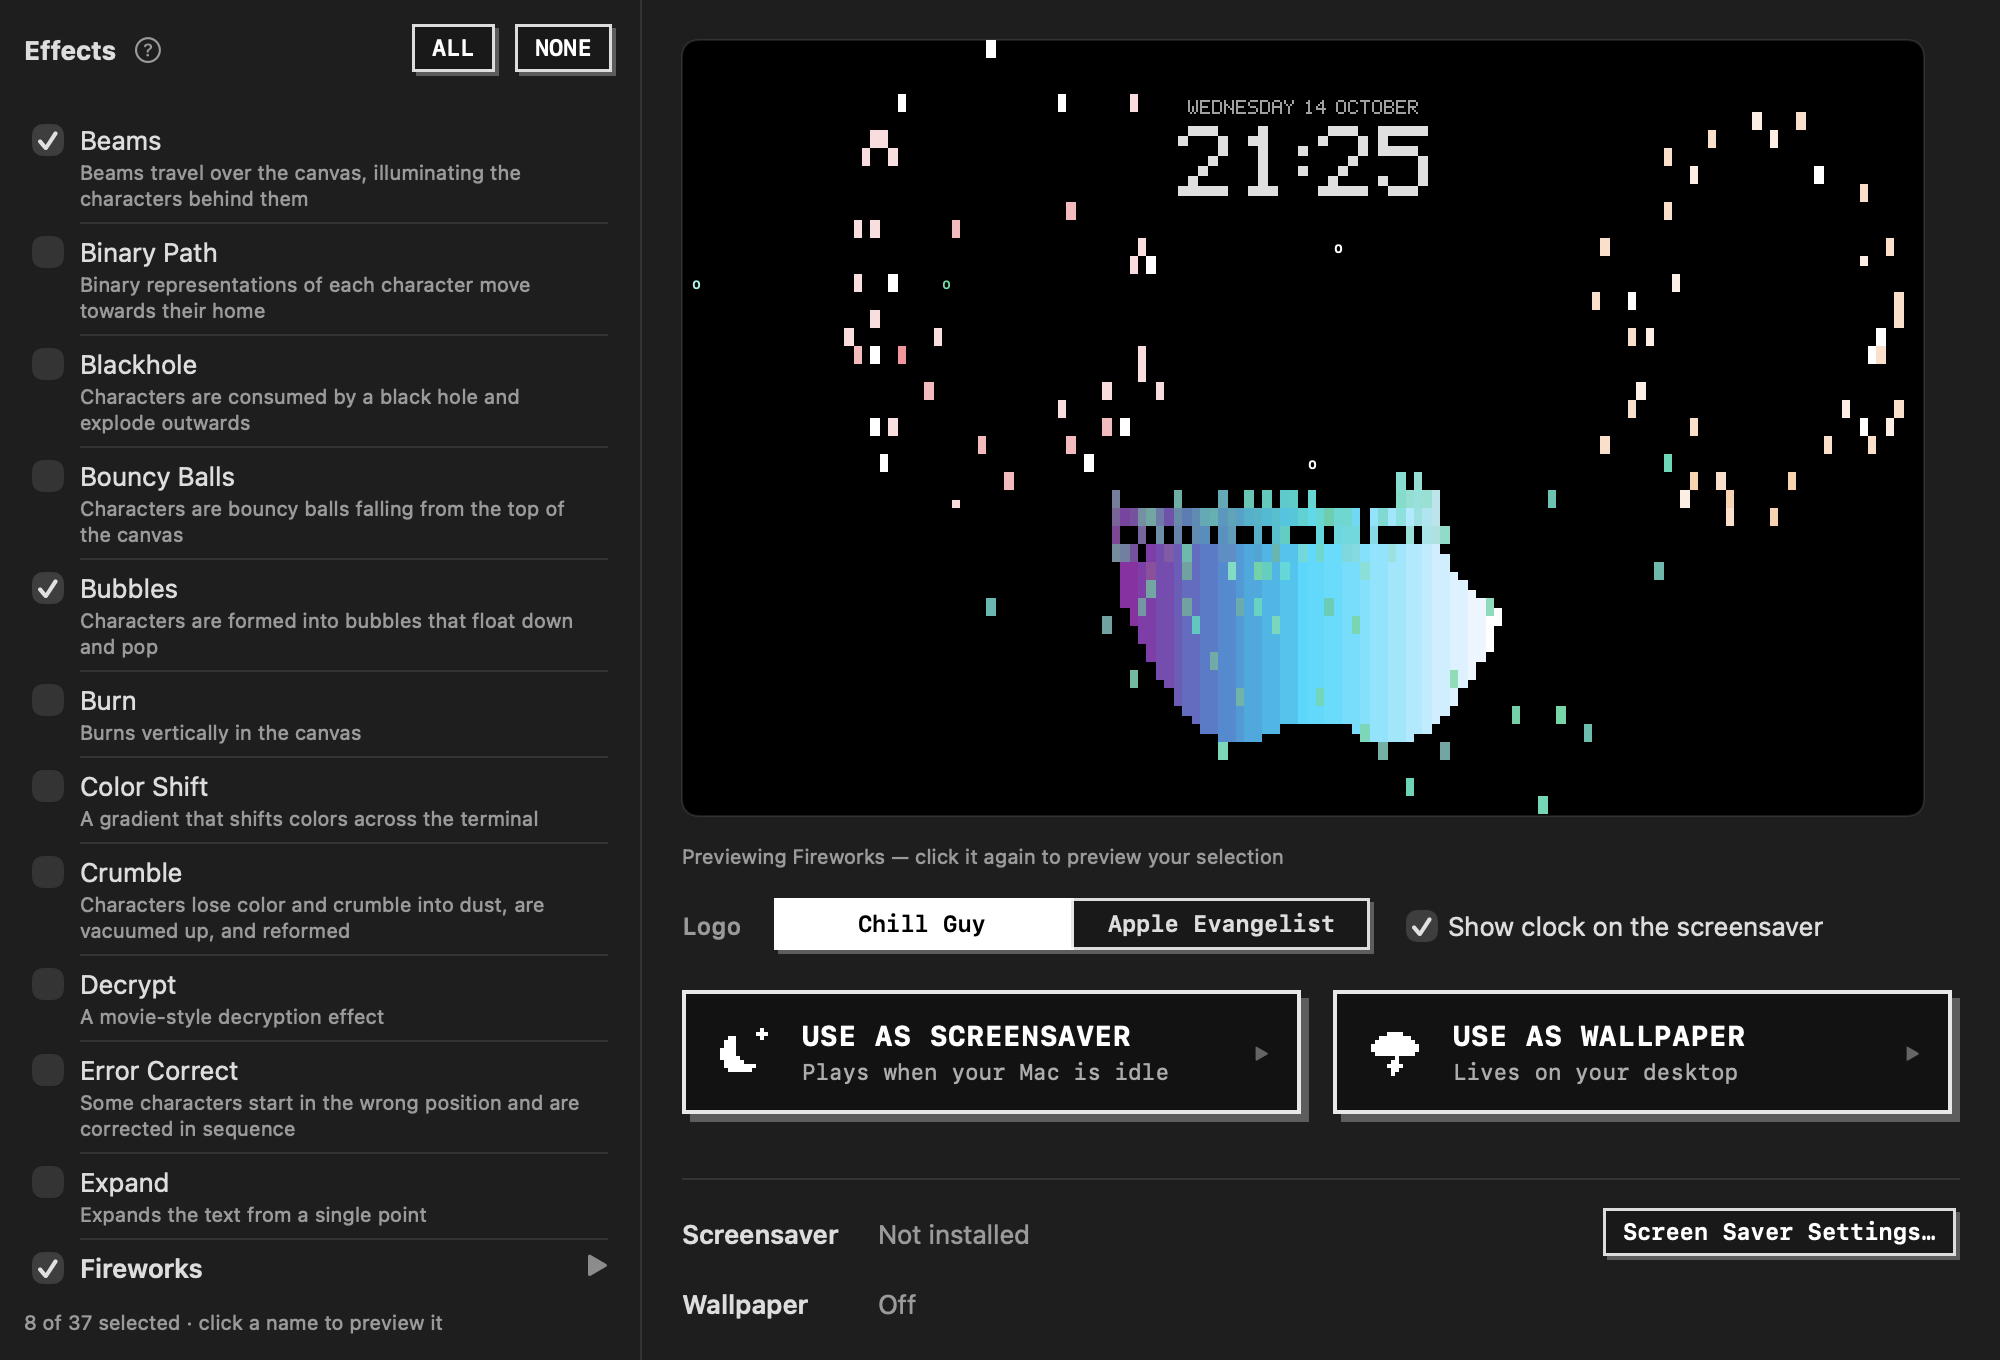
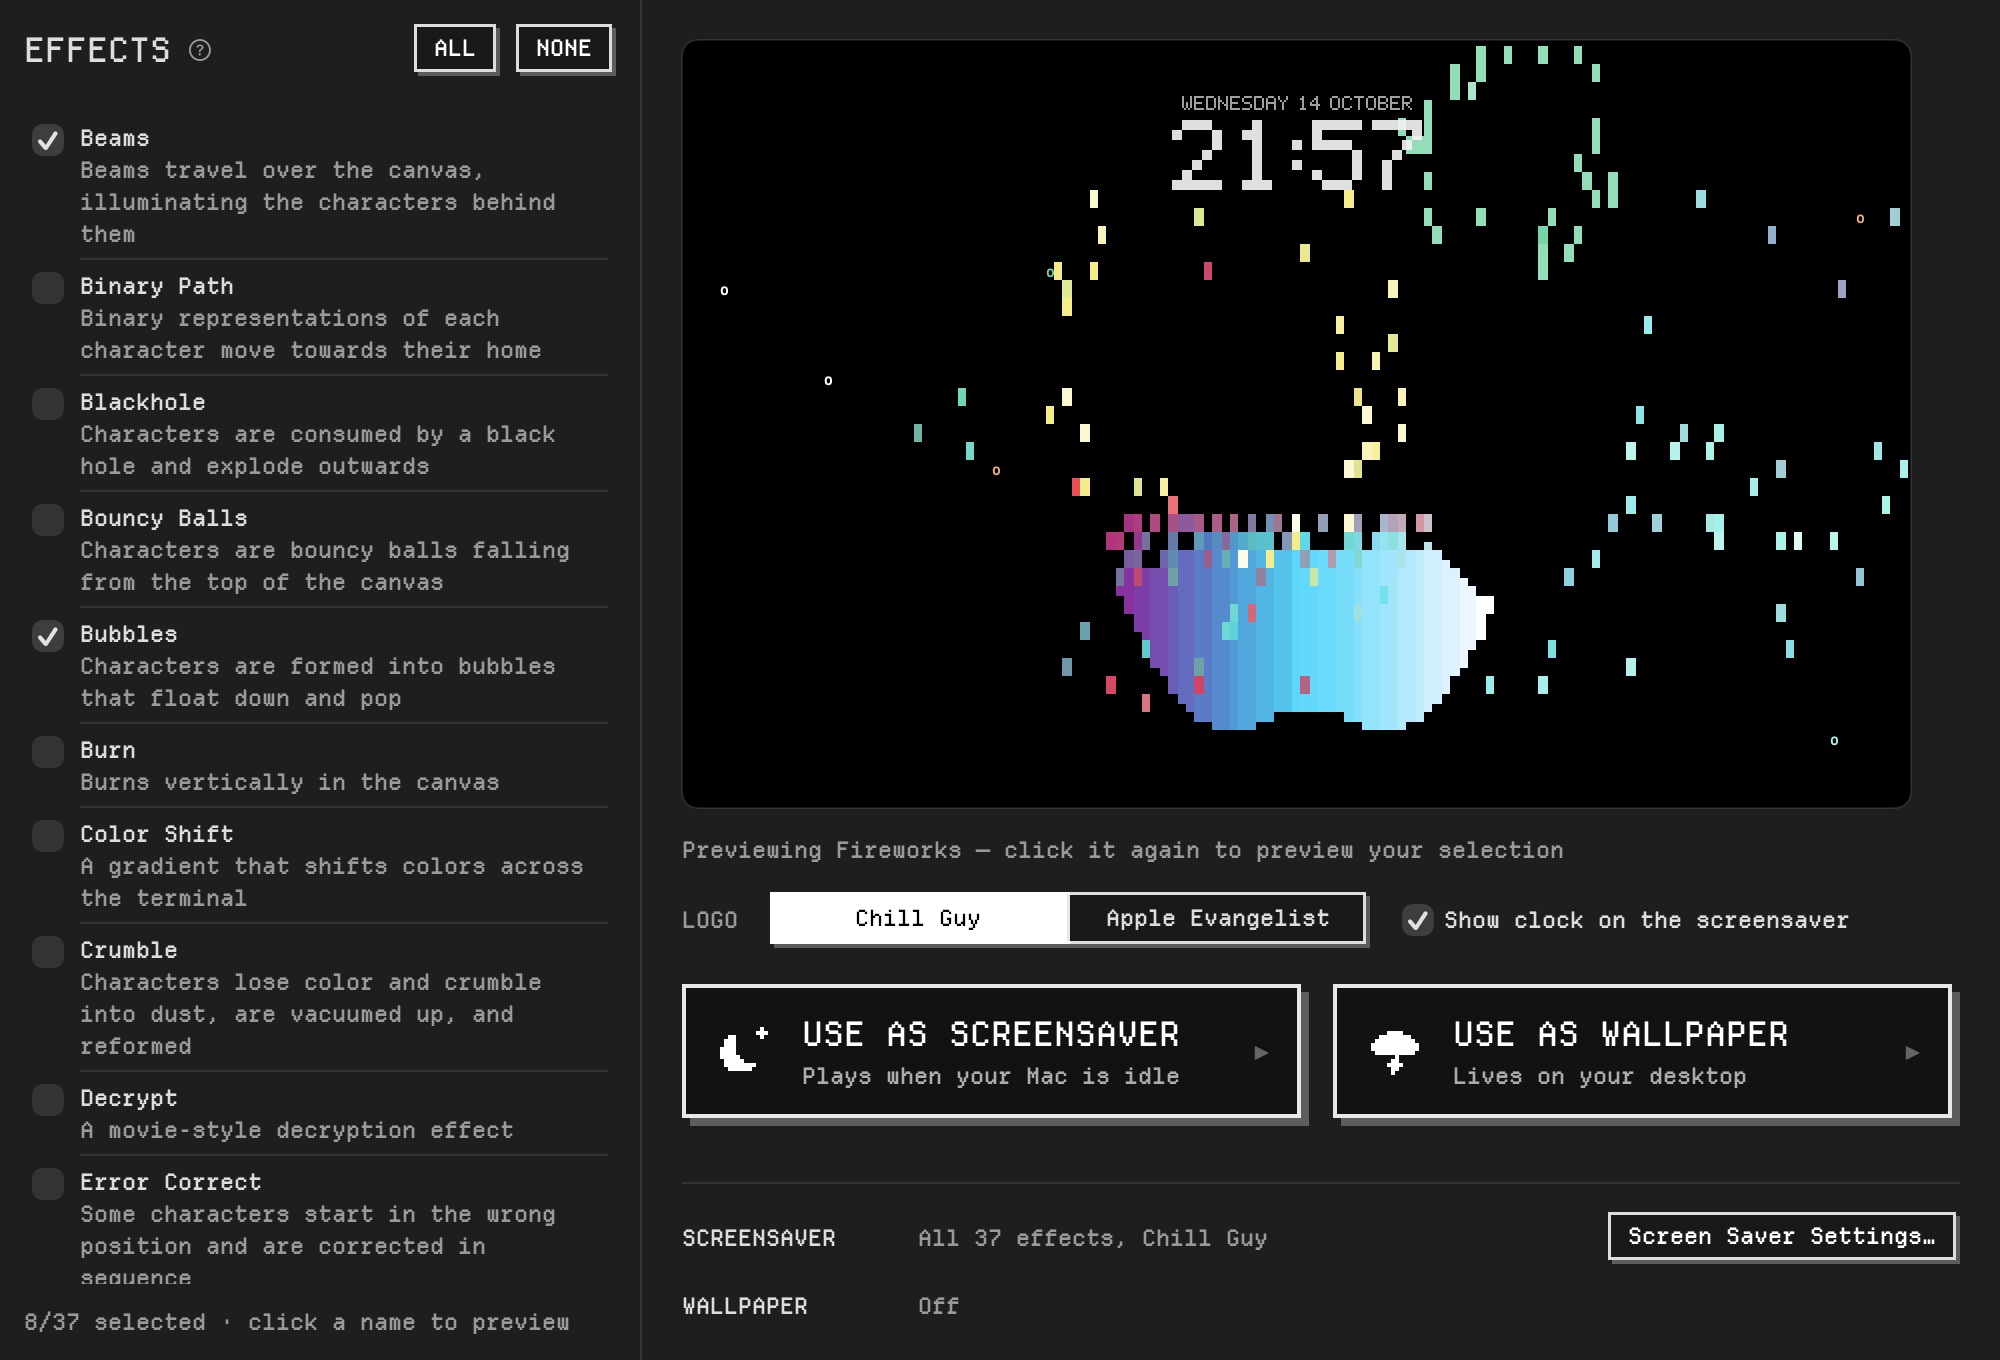
Applarchy 1.1: one pixel typeface everywhere
The whole app now uses Departure Mono (SIL OFL 1.1, bundled), a pixel
monospace on an 11 px grid, at 11 / 16.5 / 22 pt only so every stem lands
on whole pixels. With a single weight, hierarchy comes from size, capitals
and colour instead of bold.

diff --git a/studio/ContentView.swift b/studio/ContentView.swift
@@ -35,6 +35,7 @@ struct ContentView: View {
         }
         .frame(minWidth: 940, minHeight: 640)
         .background(Color(nsColor: .windowBackgroundColor))
+        .font(Pixel.body)
         .onAppear { if !tutorialSeen && !snapshotMode { withAnimation(.easeOut(duration: 0.3).delay(0.35)) { showTutorial = true } } }
         .onChange(of: showTutorial) { if !$0 && !snapshotMode { tutorialSeen = true } }
         .onReceive(NotificationCenter.default.publisher(for: .showTutorial)) { _ in withAnimation(.easeOut(duration: 0.25)) { showTutorial = true } }
@@ -47,7 +48,7 @@ struct ContentView: View {
     private var effectList: some View {
         VStack(alignment: .leading, spacing: 0) {
             HStack {
-                Text("Effects").font(.headline)
+                Text("EFFECTS").font(Pixel.title)
                 Button { withAnimation(.easeOut(duration: 0.25)) { showTutorial = true } } label: {
                     Image(systemName: "questionmark.circle")
                 }
@@ -61,8 +62,8 @@ struct ContentView: View {
                 HStack(alignment: .top, spacing: 8) {
                     Toggle("", isOn: selected(effect.id)).labelsHidden()
                     VStack(alignment: .leading, spacing: 2) {
-                        Text(effect.title).fontWeight(focused == effect.id ? .semibold : .regular)
-                        Text(effect.summary).font(.caption).foregroundStyle(.secondary).lineLimit(2)
+                        Text(effect.title).font(Pixel.body).foregroundStyle(focused == effect.id ? Color.white : Color.primary)
+                        Text(effect.summary).font(Pixel.body).foregroundStyle(.secondary).lineLimit(3).lineSpacing(2)
                     }
                     Spacer(minLength: 0)
                     if focused == effect.id { Image(systemName: "play.fill").foregroundStyle(.tint) }
@@ -71,8 +72,8 @@ struct ContentView: View {
                 .contentShape(Rectangle())
                 .onTapGesture { focused = focused == effect.id ? nil : effect.id }
             }
-            Text("\(draft.effects.count) of \(Catalog.effects.count) selected · click a name to preview it")
-                .font(.caption).foregroundStyle(.secondary).padding(12)
+            Text("\(draft.effects.count)/\(Catalog.effects.count) selected · click a name to preview")
+                .foregroundStyle(.secondary).padding(12)
         }
     }
 
@@ -101,10 +102,10 @@ struct ContentView: View {
                 .overlay(RoundedRectangle(cornerRadius: 8).stroke(.separator))
             Text(focused.map { id in "Previewing \(Catalog.effects.first { $0.id == id }!.title) — click it again to preview your selection" }
                  ?? (draft.effects.count == 1 ? "Previewing your selection" : "Previewing your selection in random order"))
-                .font(.caption).foregroundStyle(.secondary)
+                .foregroundStyle(.secondary)
 
             HStack(spacing: 16) {
-                Text("Logo").font(.system(size: 12, weight: .semibold, design: .monospaced)).foregroundStyle(.secondary)
+                Text("LOGO").foregroundStyle(.secondary)
                 PixelSegmented(selection: $draft.logo, options: [
                     ("apple-small", EffectConfig.logoTitle("apple-small")),
                     ("apple", EffectConfig.logoTitle("apple")),
@@ -121,17 +122,17 @@ struct ContentView: View {
             }
             .padding(.top, 4)
             .disabled(draft.effects.isEmpty)
-            if draft.effects.isEmpty { Text("Select at least one effect.").font(.caption).foregroundStyle(.secondary) }
+            if draft.effects.isEmpty { Text("Select at least one effect.").foregroundStyle(.secondary) }
 
             if Bundle.main.bundlePath.contains("/AppTranslocation/") {
                 Label("Move Applarchy to your Applications folder and open it from there, so it can start at login.",
                       systemImage: "exclamationmark.triangle")
-                    .font(.system(size: 12, design: .monospaced)).foregroundStyle(.orange)
+                    .foregroundStyle(.orange)
                     .fixedSize(horizontal: false, vertical: true)
             }
 
             if let message {
-                Text(message).font(.callout).foregroundStyle(.secondary).fixedSize(horizontal: false, vertical: true)
+                Text(message).foregroundStyle(.secondary).lineSpacing(2).fixedSize(horizontal: false, vertical: true)
             }
 
             Spacer(minLength: 0)
@@ -152,7 +153,7 @@ struct ContentView: View {
 
     private func statusRow<Buttons: View>(title: String, value: String, @ViewBuilder buttons: () -> Buttons) -> some View {
         HStack {
-            Text(title).fontWeight(.semibold).frame(width: 90, alignment: .leading)
+            Text(title.uppercased()).frame(width: 110, alignment: .leading)
             Text(value).foregroundStyle(.secondary)
             Spacer()
             buttons()

diff --git a/studio/Tutorial.swift b/studio/Tutorial.swift
@@ -34,6 +34,7 @@ struct TutorialOverlay: View {
                 .overlay(RoundedRectangle(cornerRadius: 22, style: .continuous).strokeBorder(.white.opacity(0.12)))
                 .shadow(color: .black.opacity(0.45), radius: 40, y: 18)
         }
+        .font(Pixel.body)
     }
 
     private var card: some View {
@@ -52,10 +53,10 @@ struct TutorialOverlay: View {
 
             VStack(alignment: .leading, spacing: 8) {
                 Text("STEP \(page + 1) OF \(steps.count)")
-                    .font(.system(size: 11, weight: .bold, design: .monospaced)).tracking(1.2)
+                    .font(Pixel.body)
                     .foregroundStyle(.secondary)
-                Text(steps[page].title).font(.system(size: 22, weight: .bold))
-                Text(steps[page].body).font(.system(size: 13.5)).foregroundStyle(.secondary)
+                Text(steps[page].title).font(Pixel.display)
+                Text(steps[page].body).font(Pixel.body).lineSpacing(4).foregroundStyle(.secondary)
                     .fixedSize(horizontal: false, vertical: true)
                     .frame(minHeight: 54, alignment: .top)
             }
@@ -81,7 +82,7 @@ struct TutorialOverlay: View {
                 HStack(spacing: 8) {
                     if page > 0 {
                         Button { go(to: page - 1) } label: {
-                            Text("◀").font(.system(size: 12.5, weight: .bold, design: .monospaced))
+                            Text("◀").font(Pixel.body)
                                 .foregroundStyle(.white)
                                 .padding(.horizontal, 12).padding(.vertical, 8)
                                 .background(Color(white: 0.14))
@@ -91,7 +92,7 @@ struct TutorialOverlay: View {
                     }
                     Button { page == steps.count - 1 ? close() : go(to: page + 1) } label: {
                         Text((page == steps.count - 1 ? "Get Started" : "Next") + " ▶")
-                            .font(.system(size: 12.5, weight: .bold, design: .monospaced))
+                            .font(Pixel.body)
                             .foregroundStyle(.black)
                             .padding(.horizontal, 16).padding(.vertical, 8)
                             .background(Color.white)
@@ -160,7 +161,7 @@ struct Shot: View {
                 .clipShape(RoundedRectangle(cornerRadius: 8, style: .continuous))
                 .overlay(RoundedRectangle(cornerRadius: 8, style: .continuous).strokeBorder(.white.opacity(0.15)))
                 .shadow(color: .black.opacity(0.5), radius: 10, y: 4)
-            Text(title).font(.system(size: 13, weight: .semibold)).foregroundStyle(.white)
+            Text(title.uppercased()).font(Pixel.body).foregroundStyle(.white)
         }
         .frame(maxWidth: .infinity)
     }
@@ -171,7 +172,7 @@ private struct Badge: View {
     let icon: String
     var body: some View {
         Label(text, systemImage: icon)
-            .font(.system(size: 10.5, weight: .bold)).tracking(0.8)
+            .font(Pixel.body)
             .foregroundStyle(.white)
             .padding(.horizontal, 9).padding(.vertical, 5)
             .background(.black.opacity(0.55), in: Capsule())
@@ -194,7 +195,7 @@ private struct ListIllustration: View {
                         Image(systemName: on ? "checkmark.square.fill" : "square")
                             .font(.system(size: 15))
                             .foregroundStyle(on ? AnyShapeStyle(Color.accentColor) : AnyShapeStyle(.white.opacity(0.4)))
-                        Text(name).font(.system(size: 13, weight: playing ? .bold : .regular)).foregroundStyle(.white)
+                        Text(name).font(Pixel.body).foregroundStyle(playing ? Color.white : Color.white.opacity(0.8))
                         Spacer()
                         if playing { Image(systemName: "play.fill").font(.system(size: 10)).foregroundStyle(Color.accentColor) }
                     }
@@ -213,7 +214,7 @@ private struct ListIllustration: View {
                     .clipShape(RoundedRectangle(cornerRadius: 8))
                     .overlay(RoundedRectangle(cornerRadius: 8).strokeBorder(.white.opacity(0.15)))
                     .shadow(color: .black.opacity(0.5), radius: 10, y: 4)
-                Text("Click a name to preview it").font(.system(size: 12, weight: .medium)).foregroundStyle(.white.opacity(0.7))
+                Text("Click a name to preview it").font(Pixel.body).foregroundStyle(.white.opacity(0.7))
             }
         }
         .padding(18)

diff --git a/studio/Components.swift b/studio/Components.swift
@@ -26,15 +26,14 @@ struct BigActionButton: View {
             PixelIconView(icon: icon, color: ink).frame(width: 30, height: 30)
             VStack(alignment: .leading, spacing: 3) {
                 Text(title.uppercased())
-                    .font(.system(size: 14, weight: .bold, design: .monospaced))
-                    .tracking(0.5)
+                    .font(Pixel.title)
                 Text(subtitle)
-                    .font(.system(size: 11, weight: .regular, design: .monospaced))
+                    .font(Pixel.body)
                     .lineLimit(1)
                     .opacity(0.65)
             }
             Spacer(minLength: 0)
-            Text("▶").font(.system(size: 11, design: .monospaced)).opacity(hovering ? 1 : 0.35)
+            Text("▶").font(Pixel.body).opacity(hovering ? 1 : 0.35)
         }
         .foregroundStyle(ink)
         .padding(.horizontal, 16)
@@ -140,7 +139,7 @@ private struct PixelButtonBody: View {
         let lit = hovering && isEnabled
         let pressed = configuration.isPressed
         configuration.label
-            .font(.system(size: 11.5, weight: .semibold, design: .monospaced))
+            .font(Pixel.body)
             .foregroundStyle(lit ? Color.black : Color.white)
             .padding(.horizontal, 10).padding(.vertical, 5)
             .background(lit ? Color.white : Color(white: 0.1))
@@ -165,7 +164,7 @@ struct PixelSegmented: View {
                 let on = options[i].tag == selection
                 Button { selection = options[i].tag } label: {
                     Text(options[i].title)
-                        .font(.system(size: 11.5, weight: .semibold, design: .monospaced))
+                        .font(Pixel.body)
                         .foregroundStyle(on ? Color.black : Color.white.opacity(0.85))
                         .padding(.horizontal, 12).padding(.vertical, 6)
                         .frame(maxWidth: .infinity)

diff --git a/studio/Typography.swift b/studio/Typography.swift
@@ -1,0 +1,23 @@
+import CoreText
+import SwiftUI
+
+/// One typeface for the whole app: Departure Mono by Helena Zhang (SIL OFL 1.1,
+/// bundled in Resources), a pixel monospace drawn on an 11 px grid. Only sizes on
+/// that grid are used (11, 16.5 and 22 pt, i.e. 22, 33 and 44 px on Retina) so every
+/// stem lands on whole pixels. It has a single weight: hierarchy comes from size,
+/// capitals and colour, never bold.
+enum Pixel {
+    static let postScriptName = "DepartureMono-Regular"
+
+    static let body = font(11)        // everything by default
+    static let title = font(16.5)     // section titles, big buttons
+    static let display = font(22)     // tutorial headings
+
+    static func font(_ size: CGFloat) -> Font { .custom(postScriptName, fixedSize: size) }
+
+    /// Make the bundled font available to this process. Call before any view is built.
+    static func register() {
+        guard let url = Bundle.main.url(forResource: postScriptName, withExtension: "otf") else { return }
+        CTFontManagerRegisterFontsForURL(url as CFURL, .process, nil)
+    }
+}

diff --git a/studio/main.swift b/studio/main.swift
@@ -214,6 +214,7 @@ if !others.isEmpty && !CommandLine.arguments.contains("--snapshot") && !CommandL
     exit(0)
 }
 
+Pixel.register()
 let app = NSApplication.shared
 app.setActivationPolicy(.accessory)
 let delegate = AppDelegate()

diff --git a/README.md b/README.md
@@ -73,7 +73,7 @@ Spotlights · Spray · Swarm · Sweep · Synth Grid · Thunderstorm · Unstable 
 
 ## Install
 
-1. Download **`Applarchy-1.0.dmg`** from the [latest release](https://github.com/CaptainCompileon/applarchy/releases/latest).
+1. Download **`Applarchy-<version>.dmg`** from the [latest release](https://github.com/CaptainCompileon/applarchy/releases/latest).
 2. Open it and drag **Applarchy** into **Applications**.
 3. Open Applarchy from Applications.
 
@@ -112,7 +112,7 @@ You need the Xcode Command Line Tools (`xcode-select --install`) and Rust
 git clone https://github.com/CaptainCompileon/applarchy.git
 cd applarchy
 scripts/build.sh          # → dist/Applarchy.app
-scripts/package-dmg.sh    # → dist/Applarchy-1.0.dmg
+scripts/package-dmg.sh    # → dist/Applarchy-<version>.dmg
 ```
 
 ## How it works
@@ -152,6 +152,8 @@ studio/   the app: SwiftUI front end, live preview, wallpaper windows, screensav
   [`engine/LICENSE`](engine/LICENSE) and [`engine/NOTICE`](engine/NOTICE)).
 - **[Omarchy](https://github.com/basecamp/omarchy)** by Basecamp — the screensaver that inspired
   this.
+- **[Departure Mono](https://departuremono.com)** by Helena Zhang — the app's pixel typeface
+  (SIL Open Font License 1.1; see [`studio/fonts/DepartureMono-LICENSE.txt`](studio/fonts/DepartureMono-LICENSE.txt)).
 
 ## License
 
